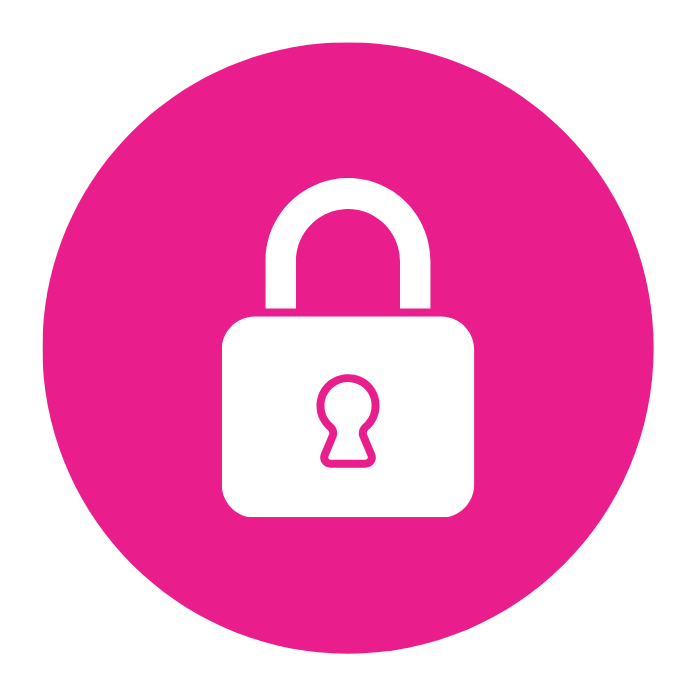
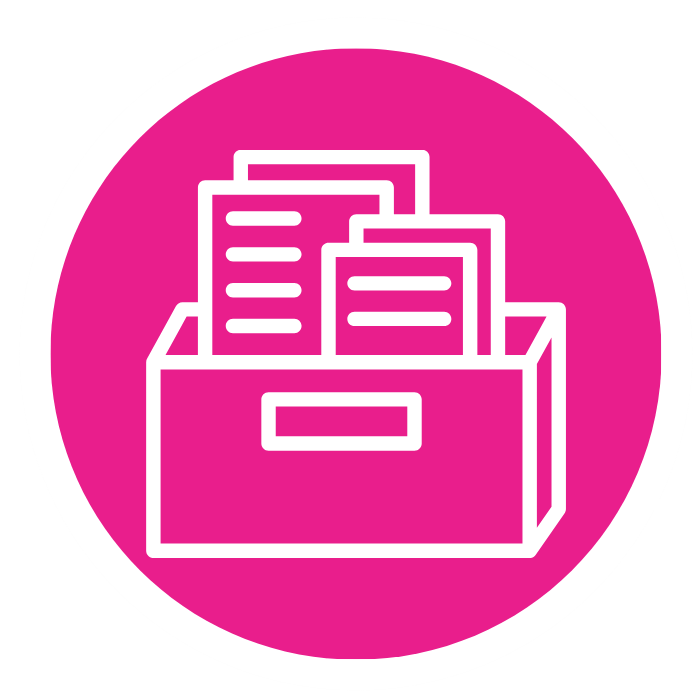
link

diff --git a/index.html b/index.html
@@ -546,7 +546,7 @@
           <i class="fas fa-users"></i>
           <h3>Volunteer</h3>
           <p>Join our activities and become a part of meaningful change through your time and skills today together</p>
-          <a href="get-involved/individual-support.html">Become a Volunteer</a>
+          <a href="get-involved/career.html">Become a Volunteer</a>
         </div>
 
         <div class="involve-card">